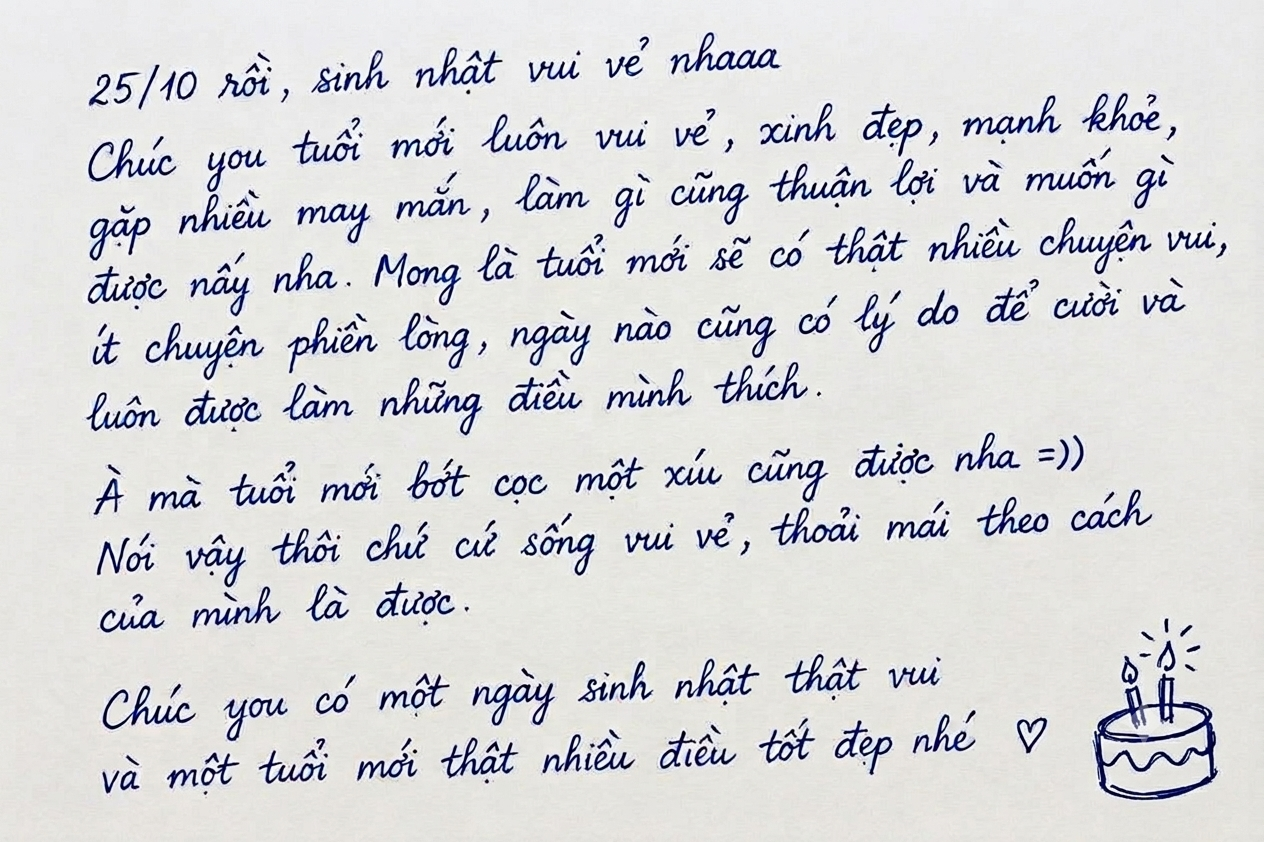
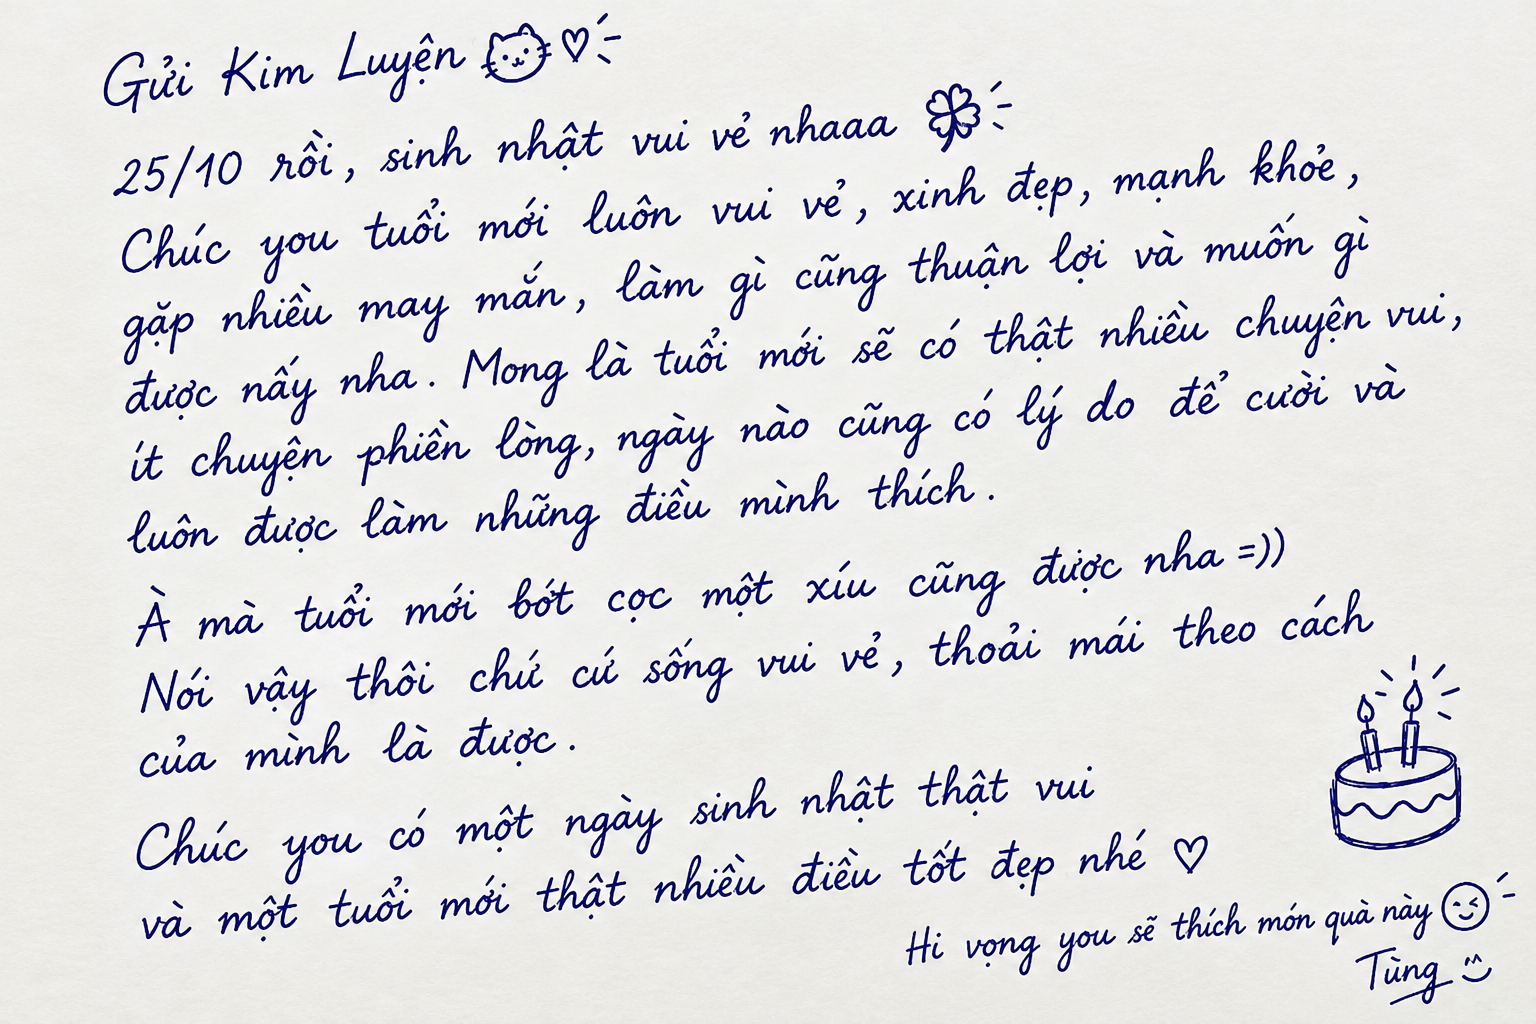
603

Changed region(s): [[0.0617, 0.0309, 0.9873, 0.772], [0.0617, 0.6485, 0.9873, 0.9881]]

diff --git a/index.html b/index.html
@@ -8,7 +8,7 @@
       name="description"
       content="Một bó hoa và tấm thiệp nhỏ, gửi những lời chúc dịu dàng với you."
     />
-    <title>Một bó hoa dành tặng you</title>
+    <title>Gửi tặng you một bó hoa nhỏ ^^</title>
     <link rel="stylesheet" href="./style.css" />
     <link
       href="https://fonts.googleapis.com/css2?family=Dancing+Script:wght@700&display=swap"
@@ -21,11 +21,11 @@
     <main>
       <canvas id="ambientPetalsCanvas" aria-hidden="true"></canvas>
       <div class="gift-layout">
-        <section class="scene-column" aria-label="Hoa và những lời chúc 20/10">
+        <section class="scene-column">
           <div class="gift-visuals">
             <div class="bouquet-composition">
               <div class="birthday-text">
-                <span>Happy Birthday</span>
+                <span>Happy Birthday</span><br /><span>Kim Luyện</span>
               </div>
               <div
                 id="bouquetStageWrapper"

diff --git a/style.css b/style.css
@@ -431,7 +431,7 @@ h1 {
   inset: auto;
   justify-self: center;
   align-self: start;
-  width: min(100%, 620px);
+  width: min(100%, 900px);
   min-width: 0;
   max-width: none;
   max-height: none;
@@ -456,14 +456,14 @@ h1 {
   position: fixed;
   inset: max(18px, env(safe-area-inset-top)) auto auto 50%;
   transform: translateX(-50%);
-  width: min(calc(100% - 32px), 620px);
+  width: min(calc(100% - 32px), 900px);
   max-height: calc(100dvh - 36px);
   overflow: auto;
 }
 
 .card-dialog::backdrop {
   background: rgba(15, 52, 88, 0.28);
-  backdrop-filter: blur(4px);
+  backdrop-filter: none;
 }
 
 .letter-paper {
@@ -1023,9 +1023,7 @@ h1 {
 .card-image {
   display: block;
   width: 100%;
-  max-height: 240px;
-  object-fit: cover;
-  object-position: center top;
+  height: auto;
 }
 
 /* Khi dialog mở ([open]), ảnh cuộn ra từ trên xuống */

diff --git a/card.js b/card.js
@@ -194,9 +194,6 @@
       height: auto;
       object-fit: cover;
       object-position: center top;
-      image-rendering: -webkit-optimize-contrast;
-  image-rendering: crisp-edges;          
-  -ms-interpolation-mode: nearest-neighbor;
     }
     #envCard img[data-error] { display: none; }
 
@@ -287,7 +284,7 @@
       top: 50% !important;
       left: 50% !important;
       bottom: auto !important;
-      width: min(88vw, 500px) !important;
+      width: min(92vw, 129vh, 768px) !important;
       transform: translate(-50%, -50%) !important;
       z-index: 120 !important;
       clip-path: inset(0% 0 0 0 round 10px) !important;
